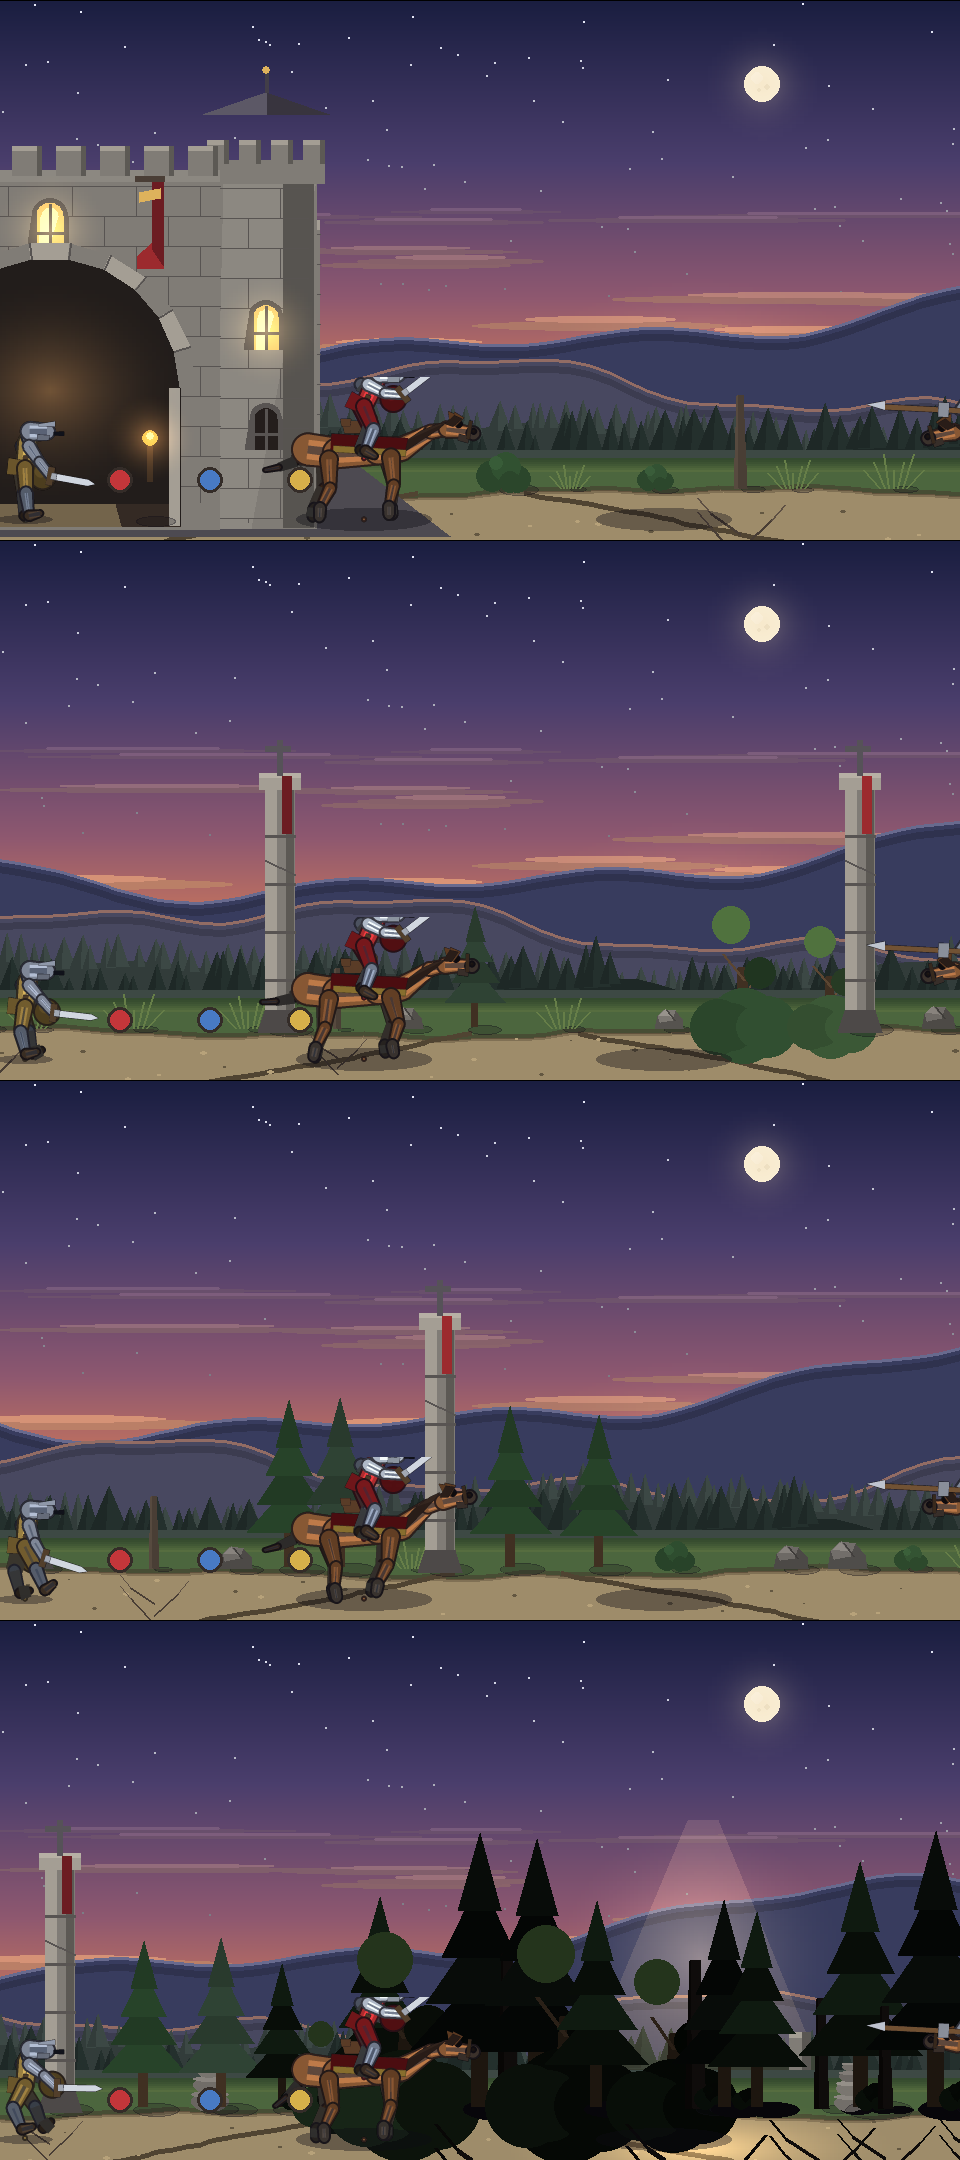
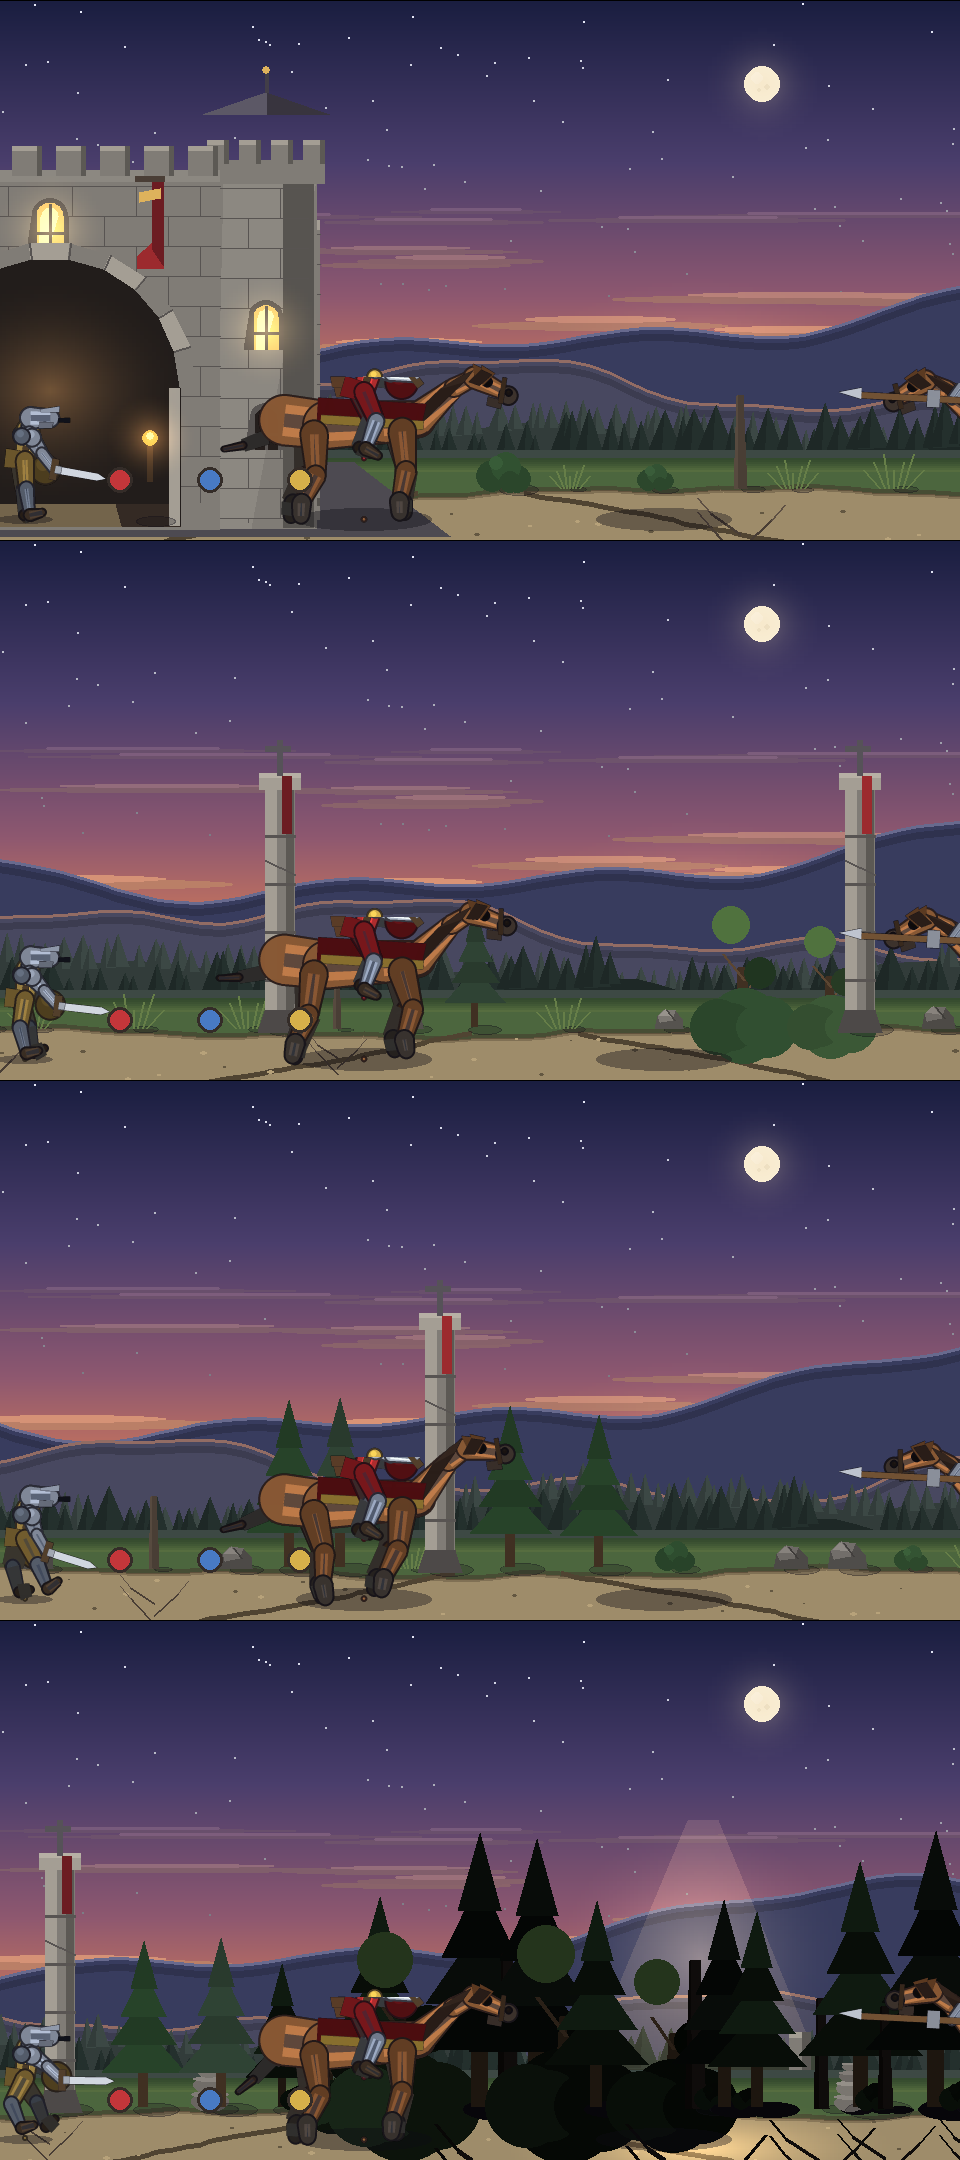
fix(sprites): apply actor scale to geometry, seat the rider, bulk up the horse
Builder carried a scale but nothing ever applied it: HORSE_S/HUMAN_S only
enlarged the canvas, so both actors drew at scale 1 and SEAT (authored for
a scaled rig) left the knight floating ~19 units above the saddle.

Scale the geometry in Builder.link/deco (positions, lengths, widths,
decoration points); the canvas keeps its own *scale. With the rider seated,
also deepen the barrel and thicken the legs (the horse read as a greyhound),
raise the neck, bring the head forward-down, and ease the riding lean.

diff --git a/sprites.py b/sprites.py
@@ -332,11 +332,14 @@ class Builder:
     def link(self, name, parent, at, ang, length, w0, w1, color):
         """A limb whose START is pinned at a world point, not at the parent's
         tip. Used for the barrel, which hangs off the root anchor."""
+        s = self.scale
         x, y = at[0] + math.cos(ang) * length, at[1] + math.sin(ang) * length
-        b = Bone(name, parent, at[0], at[1], ang, length, w0, w1, color, "limb",
-                 scale=self.scale)
+        # the scale applies to the GEOMETRY (positions, lengths, thickness),
+        # never to the canvas: scaling the rendered image would blur it.
+        b = Bone(name, parent, at[0] * s, at[1] * s, ang, length * s,
+                 w0 * s, w1 * s, color, "limb", scale=s)
         self.j.append(b)
-        self.pos[name] = (x, y)
+        self.pos[name] = (x, y)      # kept UNSCALED for chaining
         return self
 
     def limb(self, name, parent, ang, length, w0, w1, color):
@@ -347,8 +350,10 @@ class Builder:
         return self
 
     def deco(self, name, parent, x, y, ang, shape, pts, color, size=0.0):
-        self.j.append(Bone(name, parent, x, y, ang, size, 0, 0, color, shape,
-                           pts, scale=self.scale))
+        s = self.scale
+        self.j.append(Bone(name, parent, x * s, y * s, ang, size * s, 0, 0,
+                           color, shape, [(px * s, py * s) for px, py in pts],
+                           scale=s))
         self.pos[name] = (x, y)
         return self
 
@@ -371,20 +376,20 @@ def _horse(coat=None, trim=None, scale=1.0):
     b.limb("tail2", "tail", 2.60, 18, 6, 4, MANE)
     b.limb("tail3", "tail2", 2.75, 14, 4, 2, MANE)
     # --- far legs: the barrel covers them, so they read as depth ---
-    b.link("leg_hf", "root", (-38, -60), 1.50, 29, 15, 9, far)
-    b.limb("knee_hf", "leg_hf", 1.62, 22, 9, 6, far)
-    b.limb("hoof_hf", "knee_hf", 1.55, 9, 9, 8, HOOF)
-    b.link("leg_ff", "root", (24, -62), 1.50, 28, 15, 9, far)
-    b.limb("knee_ff", "leg_ff", 1.64, 22, 9, 6, far)
-    b.limb("hoof_ff", "knee_ff", 1.55, 8, 9, 8, HOOF)
-    # --- barrel: long enough that the front and hind legs stand apart ---
-    b.link("rump", "root", (-56, -70), 0.12, 30, 30, 28, HORSE)
-    b.limb("barrel", "rump", -0.05, 40, 28, 25, HORSE)
-    b.limb("chest", "barrel", -0.08, 24, 25, 22, HORSE)
+    b.link("leg_hf", "root", (-38, -60), 1.50, 29, 17, 11, far)
+    b.limb("knee_hf", "leg_hf", 1.62, 22, 12, 9, far)
+    b.limb("hoof_hf", "knee_hf", 1.55, 9, 11, 9, HOOF)
+    b.link("leg_ff", "root", (24, -62), 1.50, 28, 17, 11, far)
+    b.limb("knee_ff", "leg_ff", 1.64, 22, 12, 9, far)
+    b.limb("hoof_ff", "knee_ff", 1.55, 8, 11, 9, HOOF)
+    # --- barrel: deep enough that the legs do not read as stilts ---
+    b.link("rump", "root", (-56, -70), 0.12, 30, 34, 32, HORSE)
+    b.limb("barrel", "rump", -0.05, 40, 32, 28, HORSE)
+    b.limb("chest", "barrel", -0.08, 24, 28, 24, HORSE)
     # --- neck rises thick from the chest and tapers to a small head ---
-    b.limb("neck", "chest", -0.62, 34, 22, 12, HORSE)
-    b.limb("crest", "neck", -0.22, 16, 12, 10, HORSE)
-    b.limb("head", "crest", -0.05, 26, 14, 8, HORSE)
+    b.limb("neck", "chest", -0.80, 34, 22, 12, HORSE)
+    b.limb("crest", "neck", -0.55, 16, 12, 10, HORSE)
+    b.limb("head", "crest", 0.30, 26, 14, 8, HORSE)
     hx, hy = b.on("head")
     b.deco("muzzle", "head", hx + 1, hy + 1, 0.0, "circle", [], (62, 52, 46),
            6.0)
@@ -401,7 +406,7 @@ def _horse(coat=None, trim=None, scale=1.0):
     b.deco("forelock", "head", hx - 25, hy - 7, 0.0, "poly",
            [(-3, 3), (4, -7), (12, -5), (5, 4)], MANE)
     nx, ny = b.on("chest")   # the mane runs along the whole neck, from the base
-    b.deco("mane", "neck", nx, ny, -0.62, "poly",
+    b.deco("mane", "neck", nx, ny, -0.80, "poly",
            [(-2, 2), (10, -5), (26, -6), (42, -4), (52, -1),
             (42, 1), (24, 2), (-2, 4)], MANE)
     if coat:
@@ -415,12 +420,12 @@ def _horse(coat=None, trim=None, scale=1.0):
         b.deco("trim", "cloth", mx, my + 12, 0.06, "poly",
                [(-36, -3), (36, -3), (36, 3), (-36, 3)], trim or GOLD)
     # --- near legs, in front of the barrel ---
-    b.link("leg_hn", "root", (-35, -60), 1.50, 29, 16, 10, near)
-    b.limb("knee_hn", "leg_hn", 1.62, 22, 10, 6, near)
-    b.limb("hoof_hn", "knee_hn", 1.55, 9, 10, 9, HOOF)
-    b.link("leg_fn", "root", (27, -62), 1.50, 28, 16, 10, near)
-    b.limb("knee_fn", "leg_fn", 1.64, 22, 10, 6, near)
-    b.limb("hoof_fn", "knee_fn", 1.55, 8, 10, 9, HOOF)
+    b.link("leg_hn", "root", (-35, -60), 1.50, 29, 18, 12, near)
+    b.limb("knee_hn", "leg_hn", 1.62, 22, 13, 9, near)
+    b.limb("hoof_hn", "knee_hn", 1.55, 9, 12, 10, HOOF)
+    b.link("leg_fn", "root", (27, -62), 1.50, 28, 18, 12, near)
+    b.limb("knee_fn", "leg_fn", 1.64, 22, 13, 9, near)
+    b.limb("hoof_fn", "knee_fn", 1.55, 8, 12, 10, HOOF)
     # --- tack on top ---
     rx, ry = b.on("rump")
     bx, by = b.on("barrel")
@@ -440,8 +445,8 @@ def make_horse_rig(coat=None, trim=None, scale=1.0):
     return _horse(coat, trim, scale).build(int(132 * scale), int(120 * scale))
 
 
-STEEL_ARM_W = (11, 8)
-LEG_W = (13, 10)
+STEEL_ARM_W = (13, 9)
+LEG_W = (14, 11)
 SHOULDER = (1.0, -74.0)
 HIP = (0.0, -52.0)
 
@@ -462,8 +467,8 @@ def _human(scale, steel, steel_d, cloth, cloth_d, weapon, plume, shield,
     b.link("thigh_f", "root", (HIP[0] - 4, HIP[1]), 1.46, 25, *LEG_W, cloth_d)
     b.limb("shin_f", "thigh_f", 1.80, 23, 10, 7, steel_d)
     b.limb("foot_f", "shin_f", 0.10, 10, 8, 5, (58, 46, 36))
-    # --- torso: short and broad, so the head is not swallowed by it ---
-    b.link("torso", "root", HIP, -1.5708, 26, 15, 17, cloth)
+    # --- torso: narrow hips, broad shoulders, so the head is not swallowed ---
+    b.link("torso", "root", HIP, -1.5708, 26, 14, 18, cloth)
     b.deco("tabard", "torso", HIP[0], HIP[1], 1.5708, "poly",
            [(-7, -1), (7, -1), (8, 17), (-8, 17)], cloth_d)
     b.deco("belt", "torso", HIP[0], HIP[1] - 2, 1.5708, "poly",
@@ -493,6 +498,12 @@ def _human(scale, steel, steel_d, cloth, cloth_d, weapon, plume, shield,
     b.link("arm_n", "root", (SHOULDER[0] + 3, SHOULDER[1]), 0.90, 19,
            *STEEL_ARM_W, steel)
     b.limb("fa_n", "arm_n", 1.00, 18, 8, 7, steel)
+    # pauldrons, drawn last so they sit over the shoulders: without them the
+    # arms leave the body at a bare joint and the figure looks like a stick.
+    b.deco("pauldron_n", "torso", SHOULDER[0] + 3, SHOULDER[1] + 2, 0.0,
+           "circle", [], steel, 7.0)
+    b.deco("pauldron_f", "torso", SHOULDER[0] - 6, SHOULDER[1] + 2, 0.0,
+           "circle", [], steel_d, 6.5)
     hx, hy = b.on("fa_n")
     if lance:
         # the shaft is a child of the forearm, so it inherits the whole arm's
@@ -538,7 +549,7 @@ ARM_DOWN = 0.92
 FORE_DOWN = 1.00
 
 _RIDE = {
-    "torso": 0.34, "neck": -0.22, "head": -0.10,
+    "torso": 0.18, "neck": -0.12, "head": -0.06,
     "arm_f": -0.30, "fa_f": -0.55,
     "arm_n": -0.42, "fa_n": -0.50,
     "thigh": -0.35, "shin": 0.55, "foot": 0.22,
